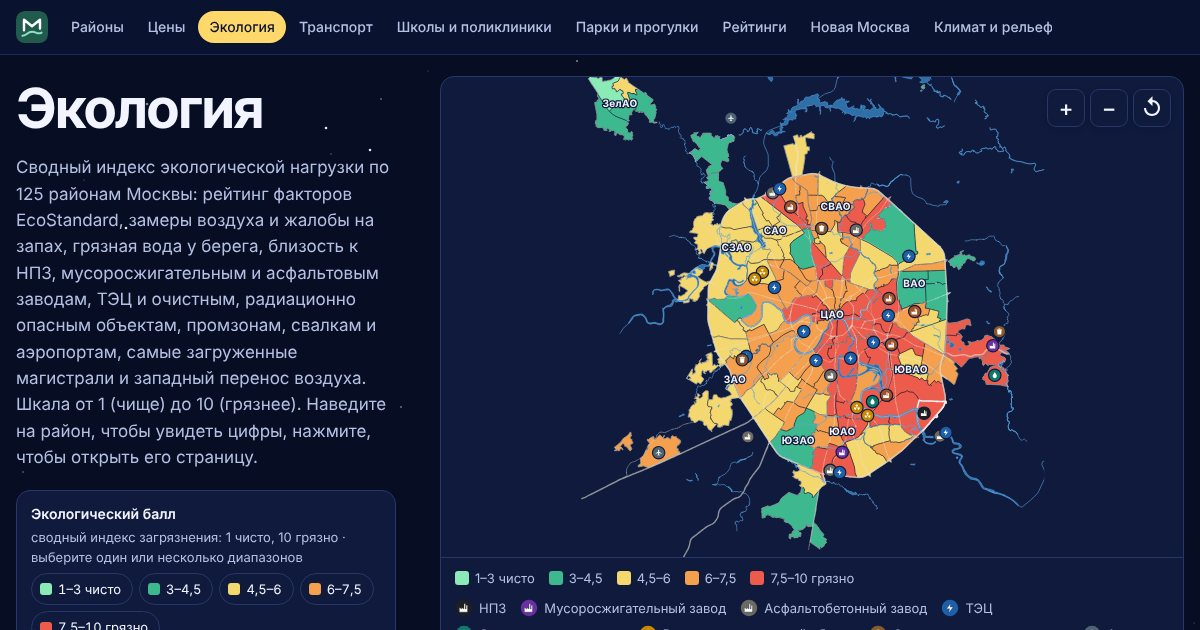
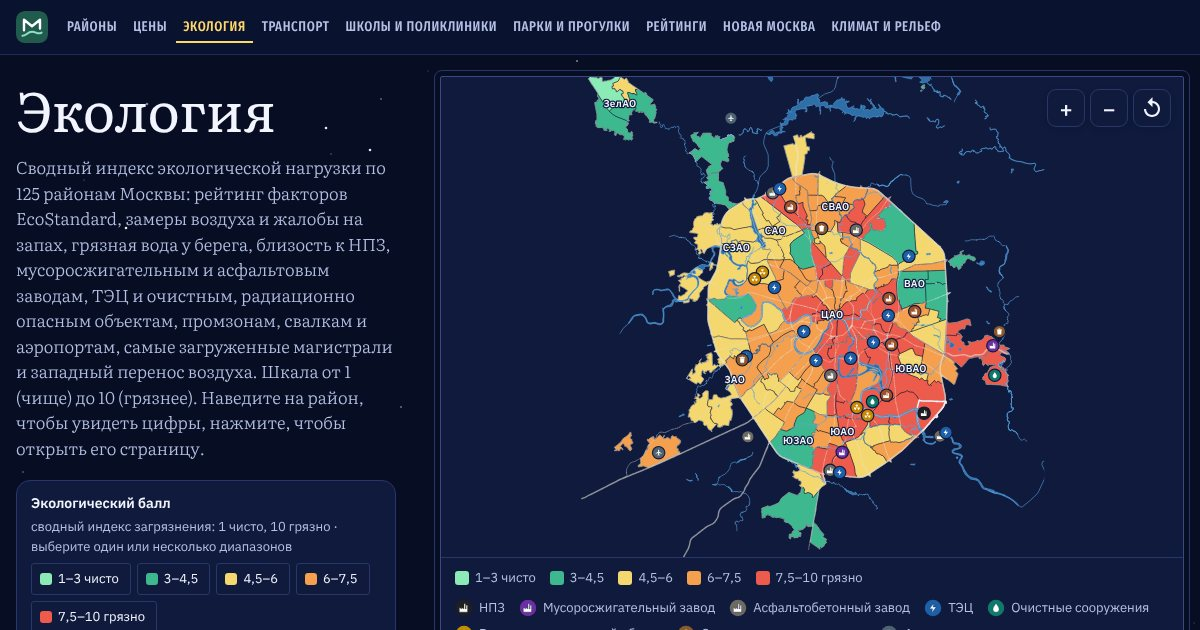
Новый вид сайта: шрифты атласа, рамка карты, переключатель «В Москве / За городом»
Claude-Session: https://claude.ai/code/session_01FX3RU4iU1kREnMfuzCbLXf

diff --git a/AGENTS.md b/AGENTS.md
@@ -74,7 +74,7 @@ python3 tools/build_sport.py                   # sport.html из шаблона 
 - Верхнее меню одно на всех страницах (с 11.11.2026): Районы · Цены · Экология · Транспорт · Школы и поликлиники · Парки и прогулки · Рейтинги · Новая Москва · Климат и рельеф. Справа в шапке отдельная жёлтая кнопка-контур «За город» (класс `go-out`) — раздел для тех, кто ищет, куда съездить; на главной под «Лучшими для жизни» карточка «За город на выходные». «Спорт» из меню убран (страница sport.html осталась, на неё ведут ссылки со страниц районов). Подвкладок «Городской среды» больше нет.
 - Дизайн с 11.11.2026 — «ночное небо», выбран владельцем: тёмно-синий фон #070D22, плашки #0F1A3C, жёлтый акцент #FFD86B (активная вкладка, главная кнопка), звёзды на фоне только у страниц с картой (главная и вкладки) — под длинным текстом они мешают читать. Делает `python3 tools/night_theme.py` (идемпотентно, блоки `NIGHT-THEME` и `WIDE-LAYOUT`); запускать после `gen_pages.py` и `build_park_pages.py`, иначе новые страницы останутся светлыми.
 - Раскладка на компьютере (шире 1000 px), главная и все вкладки с картой: слева заголовок, пояснение, фильтры и карточка района (колонка 380 px), справа карта — на одном месте и одного размера на всех вкладках (замер: 1440 px — карта 814×750, 77 px от верха). Ниже обеих колонок — во всю ширину рейтинги, методика, источники. На главной слева ещё поиск и «Лучшие для жизни» (шесть районов и кнопка «Весь рейтинг районов»). На телефоне: заголовок, сразу под ним карта, остальное ниже. Владельца раздражает, когда карта прыгает при переключении вкладок: ничего не ставить так, чтобы карта сдвигалась.
-- Порядок сборки страниц: `gen_pages.py` → `build_park_pages.py` → `build_zagorod.py` → `district_layout.py` → `zagorod_links.py` → `night_theme.py` → `seo_fix.py`. `tools/zagorod_links.py` (идемпотентно) — блок «За город в вашу сторону» на страницах районов и «Ближе всего ехать из районов» на страницах мест. `tools/seo_fix.py` (идемпотентно, последним) — короткие title/description (title до 70 знаков, description до 160), og-теги вкладок, ссылки на главную без «index.html», og:image из `assets/og/` (картинки делает `tools/og_images.py`, перезапускать после новых мест «За город»). `tools/district_layout.py` (идемпотентно) ставит на страницах районов главное наверх (жильё и транспорт, школы, парки; ниже экология, спорт, вопросы, соседи; «Рельеф и микроклимат» свёрнут внизу), добавляет карточку возраста домов (`tools/extract_house_age.py` → `tools/data/house_age.json`, только если год известен у половины домов района), пишет «станция далеко» при пешем пути больше 25 минут, «нет» вместо нулевых спортивных карточек и подсказку «листайте вбок» у широких таблиц рейтингов на телефоне.
+- Порядок сборки страниц: `gen_pages.py` → `build_park_pages.py` → `build_zagorod.py` → `district_layout.py` → `zagorod_links.py` → `night_theme.py` → `atlas_style.py` → `seo_fix.py`. `tools/atlas_style.py` (идемпотентно, блок `ATLAS-STYLE` в конце `<head>`) — вид «атлас, а не дашборд» с 12.11.2026, одобрен владельцем: шрифты Literata (заголовки), IBM Plex Sans (текст), Fira Sans Extra Condensed (меню, ярлыки, подписи карты) — файлы в `assets/fonts/`, без Google Fonts; без «таблеток» и прыгающих карточек; карта в двойной рамке с колофоном; «Лист 1 · Москва» / «Лист 2 · Подмосковье»; переключатель «Где остаёмся? В Москве / За городом» (на главной — в шаблоне `assets/atlas.js`, класс `.where .wsg`; класс `.seg` занят другим переключателем). `tools/zagorod_links.py` (идемпотентно) — блок «За город в вашу сторону» на страницах районов и «Ближе всего ехать из районов» на страницах мест. `tools/seo_fix.py` (идемпотентно, последним) — короткие title/description (title до 70 знаков, description до 160), og-теги вкладок, ссылки на главную без «index.html», og:image из `assets/og/` (картинки делает `tools/og_images.py`, перезапускать после новых мест «За город»). `tools/district_layout.py` (идемпотентно) ставит на страницах районов главное наверх (жильё и транспорт, школы, парки; ниже экология, спорт, вопросы, соседи; «Рельеф и микроклимат» свёрнут внизу), добавляет карточку возраста домов (`tools/extract_house_age.py` → `tools/data/house_age.json`, только если год известен у половины домов района), пишет «станция далеко» при пешем пути больше 25 минут, «нет» вместо нулевых спортивных карточек и подсказку «листайте вбок» у широких таблиц рейтингов на телефоне.
 - Прогулки в парках: `tools/build_park_walks.py` → `parks/catalog/walks.json` (Сокольники, Коломенское, Царицыно, Зарядье, Воробьёвы горы, Измайловский, Лосиный остров; на месте не проверялись), потом `build_park_pages.py`.
 - «За город» (с 11.11.2026): куда поехать из Москвы на день или выходные, в пределах ~100 км. Название сайта не меняем — это раздел Атласа. Сборка `tools/build_zagorod.py` (данные мест внутри скрипта: как добраться, маршрут на день, что учесть, источники и дата проверки; координаты — OpenStreetMap). Тексты свои, факты — с официальных сайтов мест; часы и цены без источника не писать. Скрипт же ставит кнопку «За город» в шапку всех страниц и адреса в sitemap — запускать после `build_park_pages.py` (генератор парков кнопку не пишет). Сейчас мест 30 (в `PLACES`; `fun=True` — блок «Модное и с детьми», `far=True` — блок «Подальше: Золотое кольцо на выходные»: Переславль-Залесский, Ростов Великий, Углич — владелец попросил их добавить, хотя это 140–230 км). Наполнение страницы: `LONG` — подробные разделы своими словами (нет у Никола-Ленивца, Этномира, «Кочевника», «Воробьёв», Зарайска, зубров, Середникова, ферм, Монина и Сенежа), `MORE` — история, куда зайти, кафе из Яндекс Карт; «Всё, что есть рядом» и слои на карте — `tools/extract_zagorod_places.py` (OSM-выгрузки Московской, Калужской, Тульской и Ярославской областей с download.openstreetmap.fr) → `zagorod/<slug>/places.json`; карта — `zagorod/zg.js`. Владелец хочет, чтобы страницы были содержательными, а не «три строчки и карта».
 - На картах районов слои школ, детсадов и поликлиник: `tools/extract_social.py` → `assets/places/<slug>.json`.

diff --git a/CLAUDE.md b/CLAUDE.md
@@ -72,7 +72,7 @@ python3 tools/build_sport.py                   # sport.html из шаблона 
 - Верхнее меню одно на всех страницах (с 11.11.2026): Районы · Цены · Экология · Транспорт · Школы и поликлиники · Парки и прогулки · Рейтинги · Новая Москва · Климат и рельеф. Справа в шапке отдельная жёлтая кнопка-контур «За город» (класс `go-out`) — раздел для тех, кто ищет, куда съездить; на главной под «Лучшими для жизни» карточка «За город на выходные». «Спорт» из меню убран (страница sport.html осталась, на неё ведут ссылки со страниц районов). Подвкладок «Городской среды» больше нет.
 - Дизайн с 11.11.2026 — «ночное небо», выбран владельцем: тёмно-синий фон #070D22, плашки #0F1A3C, жёлтый акцент #FFD86B (активная вкладка, главная кнопка), звёзды на фоне только у страниц с картой (главная и вкладки) — под длинным текстом они мешают читать. Делает `python3 tools/night_theme.py` (идемпотентно, блоки `NIGHT-THEME` и `WIDE-LAYOUT`); запускать после `gen_pages.py` и `build_park_pages.py`, иначе новые страницы останутся светлыми.
 - Раскладка на компьютере (шире 1000 px), главная и все вкладки с картой: слева заголовок, пояснение, фильтры и карточка района (колонка 380 px), справа карта — на одном месте и одного размера на всех вкладках (замер: 1440 px — карта 814×750, 77 px от верха). Ниже обеих колонок — во всю ширину рейтинги, методика, источники. На главной слева ещё поиск и «Лучшие для жизни» (шесть районов и кнопка «Весь рейтинг районов»). На телефоне: заголовок, сразу под ним карта, остальное ниже. Владельца раздражает, когда карта прыгает при переключении вкладок: ничего не ставить так, чтобы карта сдвигалась.
-- Порядок сборки страниц: `gen_pages.py` → `build_park_pages.py` → `build_zagorod.py` → `district_layout.py` → `zagorod_links.py` → `night_theme.py` → `seo_fix.py`. `tools/zagorod_links.py` (идемпотентно) — блок «За город в вашу сторону» на страницах районов и «Ближе всего ехать из районов» на страницах мест. `tools/seo_fix.py` (идемпотентно, последним) — короткие title/description (title до 70 знаков, description до 160), og-теги вкладок, ссылки на главную без «index.html», og:image из `assets/og/` (картинки делает `tools/og_images.py`, перезапускать после новых мест «За город»). `tools/district_layout.py` (идемпотентно) ставит на страницах районов главное наверх (жильё и транспорт, школы, парки; ниже экология, спорт, вопросы, соседи; «Рельеф и микроклимат» свёрнут внизу), добавляет карточку возраста домов (`tools/extract_house_age.py` → `tools/data/house_age.json`, только если год известен у половины домов района), пишет «станция далеко» при пешем пути больше 25 минут, «нет» вместо нулевых спортивных карточек и подсказку «листайте вбок» у широких таблиц рейтингов на телефоне.
+- Порядок сборки страниц: `gen_pages.py` → `build_park_pages.py` → `build_zagorod.py` → `district_layout.py` → `zagorod_links.py` → `night_theme.py` → `atlas_style.py` → `seo_fix.py`. `tools/atlas_style.py` (идемпотентно, блок `ATLAS-STYLE` в конце `<head>`) — вид «атлас, а не дашборд» с 12.11.2026, одобрен владельцем: шрифты Literata (заголовки), IBM Plex Sans (текст), Fira Sans Extra Condensed (меню, ярлыки, подписи карты) — файлы в `assets/fonts/`, без Google Fonts; без «таблеток» и прыгающих карточек; карта в двойной рамке с колофоном; «Лист 1 · Москва» / «Лист 2 · Подмосковье»; переключатель «Где остаёмся? В Москве / За городом» (на главной — в шаблоне `assets/atlas.js`, класс `.where .wsg`; класс `.seg` занят другим переключателем). `tools/zagorod_links.py` (идемпотентно) — блок «За город в вашу сторону» на страницах районов и «Ближе всего ехать из районов» на страницах мест. `tools/seo_fix.py` (идемпотентно, последним) — короткие title/description (title до 70 знаков, description до 160), og-теги вкладок, ссылки на главную без «index.html», og:image из `assets/og/` (картинки делает `tools/og_images.py`, перезапускать после новых мест «За город»). `tools/district_layout.py` (идемпотентно) ставит на страницах районов главное наверх (жильё и транспорт, школы, парки; ниже экология, спорт, вопросы, соседи; «Рельеф и микроклимат» свёрнут внизу), добавляет карточку возраста домов (`tools/extract_house_age.py` → `tools/data/house_age.json`, только если год известен у половины домов района), пишет «станция далеко» при пешем пути больше 25 минут, «нет» вместо нулевых спортивных карточек и подсказку «листайте вбок» у широких таблиц рейтингов на телефоне.
 - Прогулки в парках: `tools/build_park_walks.py` → `parks/catalog/walks.json` (Сокольники, Коломенское, Царицыно, Зарядье, Воробьёвы горы, Измайловский, Лосиный остров; на месте не проверялись), потом `build_park_pages.py`.
 - «За город» (с 11.11.2026): куда поехать из Москвы на день или выходные, в пределах ~100 км. Название сайта не меняем — это раздел Атласа. Сборка `tools/build_zagorod.py` (данные мест внутри скрипта: как добраться, маршрут на день, что учесть, источники и дата проверки; координаты — OpenStreetMap). Тексты свои, факты — с официальных сайтов мест; часы и цены без источника не писать. Скрипт же ставит кнопку «За город» в шапку всех страниц и адреса в sitemap — запускать после `build_park_pages.py` (генератор парков кнопку не пишет). Сейчас мест 30 (в `PLACES`; `fun=True` — блок «Модное и с детьми», `far=True` — блок «Подальше: Золотое кольцо на выходные»: Переславль-Залесский, Ростов Великий, Углич — владелец попросил их добавить, хотя это 140–230 км). Наполнение страницы: `LONG` — подробные разделы своими словами (нет у Никола-Ленивца, Этномира, «Кочевника», «Воробьёв», Зарайска, зубров, Середникова, ферм, Монина и Сенежа), `MORE` — история, куда зайти, кафе из Яндекс Карт; «Всё, что есть рядом» и слои на карте — `tools/extract_zagorod_places.py` (OSM-выгрузки Московской, Калужской, Тульской и Ярославской областей с download.openstreetmap.fr) → `zagorod/<slug>/places.json`; карта — `zagorod/zg.js`. Владелец хочет, чтобы страницы были содержательными, а не «три строчки и карта».
 - На картах районов слои школ, детсадов и поликлиник: `tools/extract_social.py` → `assets/places/<slug>.json`.

diff --git a/CHANGELOG.md b/CHANGELOG.md
@@ -245,3 +245,9 @@
 - На страницах районов блок «За город в вашу сторону» (4 места по направлению), на страницах мест — «Ближе всего ехать из районов»; «Ещё за город» — 6 мест в ту же сторону (`tools/zagorod_links.py`, `tools/seo_fix.py`).
 - 12.11.2026 — Claude: в хабе «За город» блок «Зимой и на новогодние» (8 мест, факты — со страниц мест и их источников); у Дмитрова — горнолыжные курорты рядом («Вокруг света»); подробный раздел у музея ВВС в Монине (Т—Ж). Заготовлен выключенный блок партнёрских ссылок (`AFF_ON = False` в `tools/build_zagorod.py`) — включать после ~100 посетителей в неделю и маркировки. В Вебмастере отправлены на переобход 10 главных страниц (дневной лимит); «Страницы в поиске» и «Файлы Sitemap» у Яндекса временно не работают. Метрика за 6–12.11: 95 визитов, 70 посетителей, из поиска 1.
 - 12.11.2026 — Claude: в рисунке шапки «За город» дорога перерисована ровно — симметрично, сходится к горизонту, разметка по оси (`ART['hub']` в `tools/build_zagorod.py`, картинка для соцсетей `assets/og/zagorod.jpg`).
+
+## 12.11.2026 — Claude: новый вид сайта «атлас, а не дашборд» (одобрен владельцем)
+
+- Шрифты атласа на всех страницах: Literata — заголовки, IBM Plex Sans — текст, Fira Sans Extra Condensed — меню, ярлыки и подписи карты (свои файлы в `assets/fonts/`, без Google Fonts). Меню — подписи заглавными, активная вкладка подчёркнута жёлтым; «Лучшие для жизни» — указатель строками; без «таблеток» и подпрыгивающих карточек.
+- Карта на главной и вкладках — в двойной рамке листа с подписью источников; «Лист 1 · Москва», в «За город» — «Лист 2 · Подмосковье».
+- Переключатель «Где остаёмся? В Москве / За городом» на главной и в разделе «За город». Цвета и положение карты не менялись (замер: 1440 px — 814×750, 77 px от верха). Картинки для соцсетей пересняты (`tools/atlas_style.py`, `assets/atlas.js`, `tools/og_images.py`).
